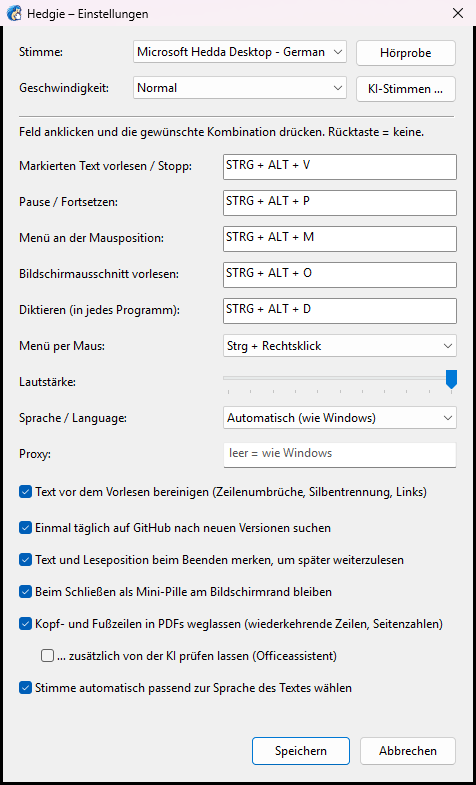
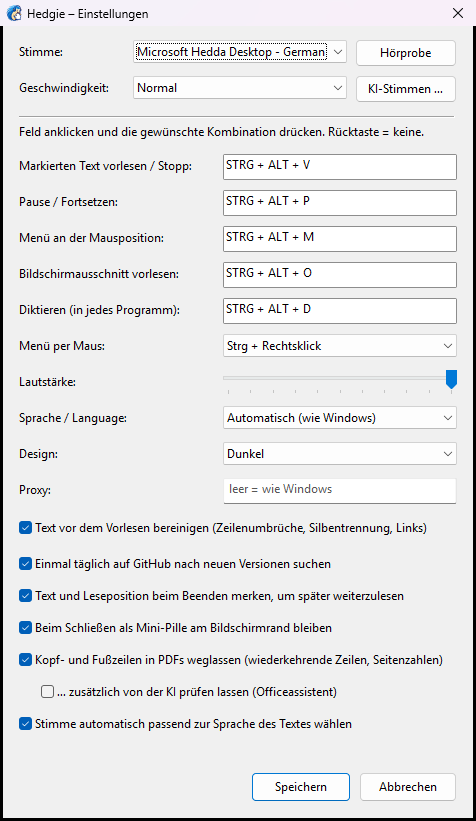
Design wählbar: wie Windows, hell oder dunkel (0.6.2)

diff --git a/src/settings.rs b/src/settings.rs
@@ -20,6 +20,7 @@ use windows::Win32::UI::WindowsAndMessaging::{
     WS_SYSMENU, WS_TABSTOP, WS_VISIBLE, WS_VSCROLL,
 };
 
+use crate::theme;
 use crate::config::{
     format_hotkey, parse_hotkey, parse_mouse_trigger, MOD_ALT, MOD_CONTROL, MOD_SHIFT, MOD_WIN,
 };
@@ -60,6 +61,9 @@ const MOUSE_OPTIONS: [(&str, &str); 5] = [
     ("mouse.ctrl_alt", "Strg+Alt+Rechtsklick"),
 ];
 
+/// Anzeige der Werte von `theme::CHOICES`.
+const THEME_LABELS: [&str; 3] = ["settings.theme_auto", "settings.theme_light", "settings.theme_dark"];
+
 /// Anzeige und Wert für `language`: „automatisch“ und alle verfügbaren Sprachen.
 fn language_options() -> Vec<(String, String)> {
     let mut options = vec![(t("menu.language_auto").replace('&', ""), i18n::AUTO.to_string())];
@@ -85,6 +89,7 @@ pub struct Values {
     pub skip_page_edges: bool,
     pub page_edges_ai: bool,
     pub auto_language: bool,
+    pub theme: String,
 }
 
 /// Stimmenauswahl oben im Fenster. Sie wirkt sofort (damit die Hörprobe passt); „Abbrechen“
@@ -118,6 +123,7 @@ struct Controls {
     edges_ai: HWND,
     auto_language: HWND,
     language: HWND,
+    theme: HWND,
     font: HFONT,
 }
 
@@ -159,7 +165,7 @@ pub fn open(owner: Option<HWND>, values: Values, voices: Voices, on_save: fn(Val
         let dpi = GetDpiForSystem();
         let px = |value: i32| value * dpi as i32 / 96;
         let style = WS_OVERLAPPED | WS_CAPTION | WS_SYSMENU;
-        let mut frame = RECT { left: 0, top: 0, right: px(470), bottom: px(756) };
+        let mut frame = RECT { left: 0, top: 0, right: px(470), bottom: px(792) };
         let _ = AdjustWindowRectExForDpi(&mut frame, style, false, WS_EX_CONTROLPARENT, dpi);
         let Ok(window) = CreateWindowExW(
             WS_EX_CONTROLPARENT,
@@ -226,19 +232,21 @@ pub fn open(owner: Option<HWND>, values: Values, voices: Voices, on_save: fn(Val
         label(t("settings.menu_by_mouse"), 5);
         label(t("settings.volume"), 6);
         label("Sprache / Language:", 7);
-        label(t("settings.proxy"), 8);
+        label(t("settings.theme"), 8);
+        label(t("settings.proxy"), 9);
         // Die Reihenfolge der Erzeugung ist die Tab-Reihenfolge.
         let hotkeys = [hotkey(0), hotkey(1), hotkey(2), hotkey(3), hotkey(4)];
         let mouse = child(w!("COMBOBOX"), "", list, 0, field_x, OFFSET + 44 + 5 * row, field_width, 300);
         let volume = child(w!("msctls_trackbar32"), "", tab | TBS_AUTOTICKS, 0, field_x - 8, OFFSET + 42 + 6 * row, field_width + 16, 30);
         let language = child(w!("COMBOBOX"), "", list, 0, field_x, OFFSET + 44 + 7 * row, field_width, 300);
+        let theme = child(w!("COMBOBOX"), "", list, 0, field_x, OFFSET + 44 + 8 * row, field_width, 300);
         let proxy = CreateWindowExW(
             WS_EX_CLIENTEDGE,
             w!("EDIT"),
             &HSTRING::from(values.proxy.as_str()),
             WS_CHILD | WS_VISIBLE | WS_TABSTOP | WINDOW_STYLE(ES_AUTOHSCROLL as u32),
             px(field_x),
-            px(OFFSET + 44 + 8 * row),
+            px(OFFSET + 44 + 9 * row),
             px(field_width),
             px(26),
             Some(window),
@@ -255,48 +263,48 @@ pub fn open(owner: Option<HWND>, values: Values, voices: Voices, on_save: fn(Val
             w!("BUTTON"),
             t("settings.clean_up_text_before"),
             tab | BS_AUTOCHECKBOX as u32,
-            0, label_x, OFFSET + 46 + 9 * row, 438, 24,
+            0, label_x, OFFSET + 46 + 10 * row, 438, 24,
         );
         let update = child(
             w!("BUTTON"),
             t("settings.check_github_for_new"),
             tab | BS_AUTOCHECKBOX as u32,
-            0, label_x, OFFSET + 46 + 10 * row, 438, 24,
+            0, label_x, OFFSET + 46 + 11 * row, 438, 24,
         );
         let remember = child(
             w!("BUTTON"),
             t("settings.remember_text"),
             tab | BS_AUTOCHECKBOX as u32,
-            0, label_x, OFFSET + 42 + 11 * row, 438, 24,
+            0, label_x, OFFSET + 42 + 12 * row, 438, 24,
         );
         let pill = child(
             w!("BUTTON"),
             t("settings.close_to_pill"),
             tab | BS_AUTOCHECKBOX as u32,
-            0, label_x, OFFSET + 38 + 12 * row, 438, 24,
+            0, label_x, OFFSET + 38 + 13 * row, 438, 24,
         );
         let edges = child(
             w!("BUTTON"),
             t("settings.skip_page_edges"),
             tab | BS_AUTOCHECKBOX as u32,
-            0, label_x, OFFSET + 34 + 13 * row, 438, 24,
+            0, label_x, OFFSET + 34 + 14 * row, 438, 24,
         );
         let edges_ai = child(
             w!("BUTTON"),
             t("settings.page_edges_ai"),
             tab | BS_AUTOCHECKBOX as u32,
-            0, label_x + 22, OFFSET + 30 + 14 * row, 416, 24,
+            0, label_x + 22, OFFSET + 30 + 15 * row, 416, 24,
         );
         let auto_language = child(
             w!("BUTTON"),
             t("settings.auto_language"),
             tab | BS_AUTOCHECKBOX as u32,
-            0, label_x, OFFSET + 26 + 15 * row, 438, 24,
+            0, label_x, OFFSET + 26 + 16 * row, 438, 24,
         );
-        child(w!("BUTTON"), t("settings.save"), tab | BS_DEFPUSHBUTTON as u32, ID_SAVE, 248, OFFSET + 626, 100, 30);
-        child(w!("BUTTON"), t("settings.cancel"), tab, ID_CANCEL, 356, OFFSET + 626, 98, 30);
+        child(w!("BUTTON"), t("settings.save"), tab | BS_DEFPUSHBUTTON as u32, ID_SAVE, 248, OFFSET + 662, 100, 30);
+        child(w!("BUTTON"), t("settings.cancel"), tab, ID_CANCEL, 356, OFFSET + 662, 98, 30);
 
-        let c = Controls { window, voice, rate, hotkeys, mouse, volume, clean, update, language, proxy, remember, pill, edges, edges_ai, auto_language, font };
+        let c = Controls { window, voice, rate, hotkeys, mouse, volume, clean, update, language, proxy, remember, pill, edges, edges_ai, auto_language, theme, font };
         fill(&c, &values);
         fill_voices(&c, &voices.items, voices.selected);
         for label in &voices.rates {
@@ -407,6 +415,12 @@ unsafe fn fill(c: &Controls, values: &Values) {
         }
     }
     SendMessageW(c.language, CB_SETCURSEL, Some(WPARAM(current)), None);
+    for key in THEME_LABELS {
+        let label = HSTRING::from(t(key));
+        SendMessageW(c.theme, CB_ADDSTRING, None, Some(LPARAM(label.as_ptr() as isize)));
+    }
+    let current = theme::CHOICES.iter().position(|c| *c == values.theme).unwrap_or(0);
+    SendMessageW(c.theme, CB_SETCURSEL, Some(WPARAM(current)), None);
 }
 
 /// Liest ein Tastenkombinations-Feld; `Err`, wenn die gedrückte Taste nicht unterstützt wird.
@@ -466,6 +480,10 @@ unsafe fn save(c: &Controls) {
             let mut buffer = [0u16; 512];
             let len = GetWindowTextW(c.proxy, &mut buffer) as usize;
             String::from_utf16_lossy(&buffer[..len]).trim().to_string()
+        },
+        theme: {
+            let row = SendMessageW(c.theme, CB_GETCURSEL, None, None).0;
+            theme::CHOICES.get(row as usize).map_or(original.theme.clone(), |value| value.to_string())
         },
         language: {
             let row = SendMessageW(c.language, CB_GETCURSEL, None, None).0;

diff --git a/src/config.rs b/src/config.rs
@@ -81,6 +81,8 @@ pub struct Config {
     pub language_voices: String,
     /// Selbst gewählte Stelle der Mini-Pille „x,y“ (Pixel); leer = unten mittig, mitwandernd.
     pub pill_position: String,
+    /// Design: „auto“ (wie Windows), „light“ oder „dark“.
+    pub theme: String,
 }
 
 impl Default for Config {
@@ -120,6 +122,7 @@ impl Default for Config {
             auto_language: true,
             language_voices: String::new(),
             pill_position: String::new(),
+            theme: "auto".into(),
         }
     }
 }
@@ -168,6 +171,7 @@ impl Config {
                 "page_edges_ai" => cfg.page_edges_ai = value != "0",
                 "auto_language" => cfg.auto_language = value != "0",
                 "language_voices" => cfg.language_voices = value.to_string(),
+                "theme" => cfg.theme = value.to_string(),
                 "pill_position" => cfg.pill_position = value.to_string(),
                 _ => {}
             }
@@ -184,7 +188,7 @@ impl Config {
              update_check={}\r\nlast_update_check={}\r\nlanguage={}\r\nproxy={}\r\n\
              remember_text={}\r\nresume_pos={}\r\nguide_shown={}\r\n\
              assistant={}\r\nai_kind={}\r\nai_url={}\r\nai_key={}\r\nai_model={}\r\nsummary_mode={}\r\n\
-             correction_mode={}\r\ncorrection_custom={}\r\ndict_auto_correct={}\r\nmicrophone={}\r\nclose_to_pill={}\r\nskip_page_edges={}\r\npage_edges_ai={}\r\nauto_language={}\r\nlanguage_voices={}\r\npill_position={}\r\n",
+             correction_mode={}\r\ncorrection_custom={}\r\ndict_auto_correct={}\r\nmicrophone={}\r\nclose_to_pill={}\r\nskip_page_edges={}\r\npage_edges_ai={}\r\nauto_language={}\r\nlanguage_voices={}\r\npill_position={}\r\ntheme={}\r\n",
             self.voice,
             self.rate,
             self.hotkey_read,
@@ -218,7 +222,8 @@ impl Config {
             self.page_edges_ai as u8,
             self.auto_language as u8,
             self.language_voices,
-            self.pill_position
+            self.pill_position,
+            self.theme
         )
     }
 
@@ -409,6 +414,7 @@ mod tests {
             auto_language: false,
             language_voices: "9=piper:en_US-lessac-high".into(),
             pill_position: "1600,900".into(),
+            theme: "dark".into(),
         };
         assert_eq!(Config::parse(&cfg.serialize()), cfg);
     }

diff --git a/src/main.rs b/src/main.rs
@@ -465,6 +465,7 @@ impl App {
             skip_page_edges: self.cfg.skip_page_edges,
             page_edges_ai: self.cfg.page_edges_ai,
             auto_language: self.cfg.auto_language,
+            theme: self.cfg.theme.clone(),
         }
     }
 
@@ -483,6 +484,12 @@ impl App {
         self.cfg.skip_page_edges = values.skip_page_edges;
         self.cfg.page_edges_ai = values.page_edges_ai;
         self.cfg.auto_language = values.auto_language;
+        if values.theme != self.cfg.theme {
+            theme::set_choice(&values.theme);
+            window::refresh_look();
+            self.update_player();
+        }
+        self.cfg.theme = values.theme;
         documents::SKIP_PAGE_EDGES.store(values.skip_page_edges, Ordering::Relaxed);
         self.cfg.proxy = values.proxy;
         http::set_proxy(&self.cfg.proxy);
@@ -2752,8 +2759,10 @@ fn main() {
 
         // Die Sprache muss feststehen, bevor das Fenster seine Beschriftungen bekommt.
         // Im Testlauf lässt sich die Sprache über VORLESER_LANG vorgeben (für Screenshots).
-        let language = std::env::var("VORLESER_LANG").ok().filter(|_| test).unwrap_or(Config::load().language);
+        let saved = Config::load();
+        let language = std::env::var("VORLESER_LANG").ok().filter(|_| test).unwrap_or(saved.language);
         i18n::init(&language);
+        theme::set_choice(&saved.theme);
         window::enable_visual_styles();
         let dialog = window::create(tray::load_icon(), on_window_command, load_file).unwrap_or_default();
         // Tastenkürzel des Fensters; Strg+Z, X, C und V erledigt das Textfeld selbst.

diff --git a/src/theme.rs b/src/theme.rs
@@ -1,15 +1,34 @@
-//! Farben der Oberfläche, hell oder dunkel wie in Windows eingestellt.
+//! Farben der Oberfläche: hell oder dunkel, wie in Windows eingestellt oder fest gewählt.
+
+use std::sync::atomic::{AtomicU8, Ordering};
 
 use windows::core::w;
 use windows::Win32::System::Registry::{RegGetValueW, HKEY_CURRENT_USER, RRF_RT_REG_DWORD};
 
 use crate::paint::{rgb, Color};
 
-/// Windows ist auf „Dunkel“ für Apps gestellt.
+/// Gewähltes Design: 0 = wie Windows, 1 = hell, 2 = dunkel.
+static CHOICE: AtomicU8 = AtomicU8::new(0);
+
+/// Werte für die Einstellung `theme`.
+pub const CHOICES: [&str; 3] = ["auto", "light", "dark"];
+
+/// Legt das Design fest („auto“, „light“ oder „dark“; Unbekanntes gilt als „auto“).
+pub fn set_choice(choice: &str) {
+    let index = CHOICES.iter().position(|c| *c == choice).unwrap_or(0);
+    CHOICE.store(index as u8, Ordering::Relaxed);
+}
+
+/// Die Oberfläche ist dunkel: fest gewählt oder weil Windows auf „Dunkel“ für Apps steht.
 pub fn dark() -> bool {
     // Im Testmodus lässt sich das Farbschema vorgeben, ohne Windows umzustellen.
     if let Some(theme) = std::env::var_os("VORLESER_TEST").and(std::env::var("VORLESER_THEME").ok()) {
         return theme == "dark";
+    }
+    match CHOICE.load(Ordering::Relaxed) {
+        1 => return false,
+        2 => return true,
+        _ => {}
     }
     let mut value = 1u32;
     let mut size = 4u32;

diff --git a/src/window.rs b/src/window.rs
@@ -469,6 +469,19 @@ unsafe fn apply_look(c: &Controls) {
     let _ = InvalidateRect(Some(c.window), None, true);
 }
 
+/// Färbt das Fenster neu, wenn sich hell/dunkel geändert hat (in Windows oder in den Einstellungen).
+pub fn refresh_look() {
+    let Some(c) = controls() else { return };
+    if palette().dark != theme::dark() {
+        unsafe {
+            apply_look(&c);
+            for child in c.children() {
+                let _ = InvalidateRect(Some(child), None, true);
+            }
+        }
+    }
+}
+
 /// Setzt alle Beschriftungen in der eingestellten Sprache (beim Anlegen und nach einem Wechsel).
 pub fn relabel() {
     let Some(c) = controls() else { return };
@@ -1547,13 +1560,8 @@ extern "system" fn wndproc(hwnd: HWND, msg: u32, wparam: WPARAM, lparam: LPARAM)
                 return result;
             }
             WM_SETTINGCHANGE => {
-                // Wechsel zwischen hellem und dunklem Modus.
-                if palette().dark != theme::dark() {
-                    apply_look(&c);
-                    for child in c.children() {
-                        let _ = InvalidateRect(Some(child), None, true);
-                    }
-                }
+                // Wechsel zwischen hellem und dunklem Modus in Windows.
+                refresh_look();
                 return DefWindowProcW(hwnd, msg, wparam, lparam);
             }
             WM_SETFOCUS => {

diff --git a/README.md b/README.md
@@ -51,6 +51,7 @@ Ein eigener Eintrag im normalen Rechtsklick-Menü fremder Programme ist unter Wi
 - **Textbereinigung:** fügt umbrochene PDF-Zeilen zusammen, hebt Silbentrennung auf, kürzt Links
 - **Audio-Export:** Text als MP3- oder WAV-Datei speichern
 - **Autostart:** auf Wunsch mit Windows starten
+- **Hell oder dunkel:** folgt Windows oder fest auf „Hell“ bzw. „Dunkel“ (Extras → Einstellungen → Design)
 - **Navigation und Weiterlesen:** Alt+← / Alt+→ springt satzweise, F5 liest ab der Schreibmarke, nach Stopp und nach einem Neustart geht es an derselben Stelle weiter
 - **Menüleiste und Tastenkürzel:** F5 Vorlesen, F6 Pause, F7 Stopp, Strg+O Textdatei öffnen (oder ins Fenster ziehen), Strg+S als WAV speichern
 - **Mehrsprachig:** Deutsch und Englisch eingebaut, weitere Sprachen über einfache Sprachdateien ([Anleitung zum Übersetzen](lang/README.md)); die Oberfläche folgt der Sprache von Windows und lässt sich unter Extras → Sprache umstellen

diff --git a/README.en.md b/README.en.md
@@ -52,6 +52,7 @@ Windows does not let a program add an entry to the regular right-click menu of o
 - **Text clean-up:** joins wrapped PDF lines, removes hyphenation, shortens links
 - **Audio export:** save text as an MP3 or WAV file
 - **Autostart:** optionally start with Windows
+- **Light or dark:** follows Windows or fixed to "Light" or "Dark" (Tools → Settings → Theme)
 - **Navigation and resume:** Alt+← / Alt+→ jumps by sentence, F5 reads from the cursor, and after stopping or restarting it continues where you left off
 - **Menu bar and shortcuts:** F5 read aloud, F6 pause, F7 stop, Ctrl+O open a text file (or drop it onto the window), Ctrl+S save as WAV
 

diff --git a/CHANGELOG.md b/CHANGELOG.md
@@ -2,7 +2,11 @@
 
 Alle nennenswerten Änderungen an Hedgie (bis 0.5 „Vorleser“). Die Versionsnummern folgen [Semantic Versioning](https://semver.org/lang/de/).
 
-## 0.6.1 – 2026-10-22
+## 0.6.2 – 2026-10-23
+
+- Neu: Design wählbar unter Extras → Einstellungen → Design: „Wie Windows“, „Hell“ oder „Dunkel“; wirkt sofort, ohne Neustart
+
+### Aus 0.6.1 (nicht einzeln veröffentlicht): Name überall
 
 - Windows zeigt nach dem Update auch bei „Öffnen mit“, in der Lautstärkemischung und in den Benachrichtigungseinstellungen „Hedgie“ statt „Vorleser“
 - Bilder auf der Projektseite zeigen Hedgie mit dem Igel-Symbol
